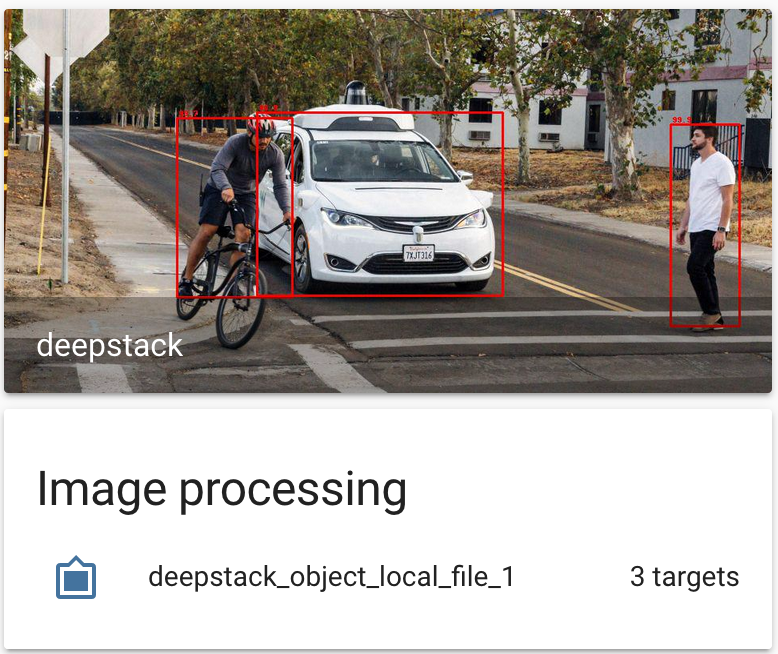
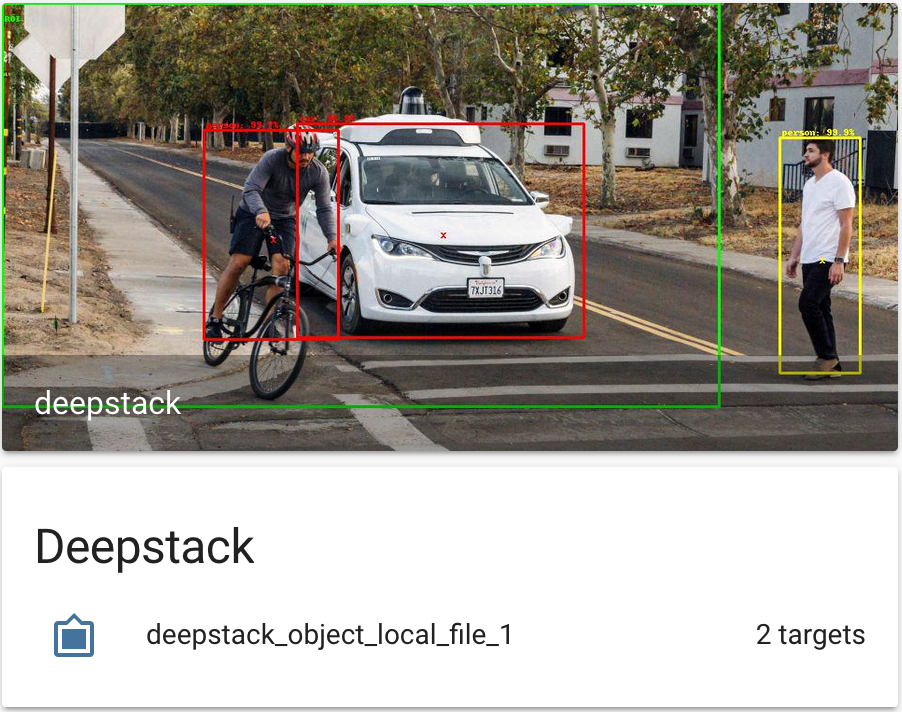
Update readme and images

diff --git a/README.md b/README.md
@@ -40,7 +40,7 @@ Which should return something like:
 ```
 
 ## Usage of this component
-The `deepstack_object` component adds an `image_processing` entity where the state of the entity is the total count of target objects that are above a `confidence` threshold which has a default value of 80%. You can have a single target object class, or multiple. The time of the last detection of any target object is in the `last target detection` attribute. The type and number of objects (of any confidence) is listed in the `summary` attributes. Optionally the processed image can be saved to disk, with bounding boxes showing the location of detected objects. If `save_file_folder` is configured, an image with filename of format `deepstack_object_{source name}_latest.jpg` is over-written on each new detection of a target. Optionally this image can also be saved with a timestamp in the filename, if `save_timestamped_file` is configured as `True`. An event `deepstack.object_detected` is fired for each object detected. If you are a power user with advanced needs such as zoning detections or you want to track multiple object types, you will need to use the `deepstack.object_detected` events.
+The `deepstack_object` component adds an `image_processing` entity where the state of the entity is the total count of target objects that are above a `confidence` threshold which has a default value of 80%. You can have a single target object class, or multiple. The time of the last detection of any target object is in the `last target detection` attribute. The type and number of objects (of any confidence) is listed in the `summary` attributes. Optionally a region of interest (ROI) can be configured, and only objects with their center (represented by a `x`) within the ROI will be included in the state count. The ROI will be displayed as a green box, and objects with their center in the ROI have a red box, whilst objects with their center outside the ROI have a yellow box. Also optionally the processed image can be saved to disk, with bounding boxes showing the location of detected objects. If `save_file_folder` is configured, an image with filename of format `deepstack_object_{source name}_latest.jpg` is over-written on each new detection of a target. Optionally this image can also be saved with a timestamp in the filename, if `save_timestamped_file` is configured as `True`. An event `deepstack.object_detected` is fired for each object detected. If you are a power user with advanced needs such as zoning detections or you want to track multiple object types, you will need to use the `deepstack.object_detected` events.
 
 **Note** that by default the component will **not** automatically scan images, but requires you to call the `image_processing.scan` service e.g. using an automation triggered by motion.
 
@@ -59,6 +59,10 @@ image_processing:
     api_key: mysecretkey
     save_file_folder: /config/snapshots/
     save_timestamped_file: True
+    # roi_x_min: 0.35
+    roi_x_max: 0.8
+    #roi_y_min: 0.4
+    roi_y_max: 0.8
     targets:
       - person
       - car
@@ -73,10 +77,16 @@ Configuration variables:
 - **timeout**: (Optional, default 10 seconds) The timeout for requests to deepstack.
 - **save_file_folder**: (Optional) The folder to save processed images to. Note that folder path should be added to [whitelist_external_dirs](https://www.home-assistant.io/docs/configuration/basic/)
 - **save_timestamped_file**: (Optional, default `False`, requires `save_file_folder` to be configured) Save the processed image with the time of detection in the filename.
+- **roi_x_min**: (optional, default 0), range 0-1, must be less than roi_x_max
+- **roi_x_max**: (optional, default 1), range 0-1, must be more than roi_x_min
+- **roi_y_min**: (optional, default 0), range 0-1, must be less than roi_y_max
+- **roi_y_max**: (optional, default 1), range 0-1, must be more than roi_y_min
 - **source**: Must be a camera.
 - **targets**: The list of target objects, default `person`.
 - **confidence**: (Optional) The confidence (in %) above which detected targets are counted in the sensor state. Default value: 80
 - **name**: (Optional) A custom name for the the entity.
+
+For the ROI, the (x=0,y=0) position is the top left pixel of the image, and the (x=1,y=1) position is the bottom right pixel of the image. It might seem a bit odd to have y running from top to bottom of the image, but that is the coordinate system used by pillow.
 
 <p align="center">
 <img src="https://github.com/robmarkcole/HASS-Deepstack-object/blob/master/docs/object_usage.png" width="500">
